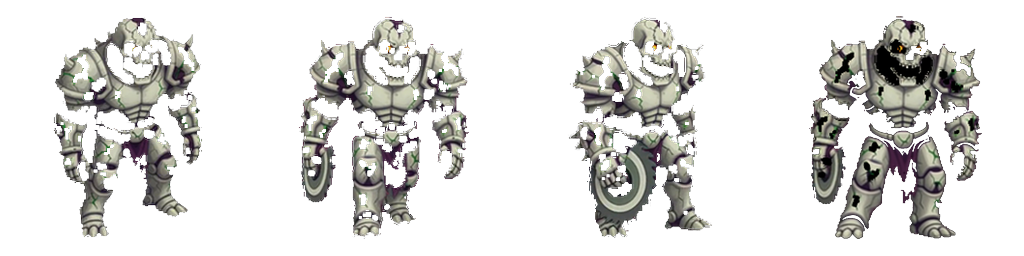
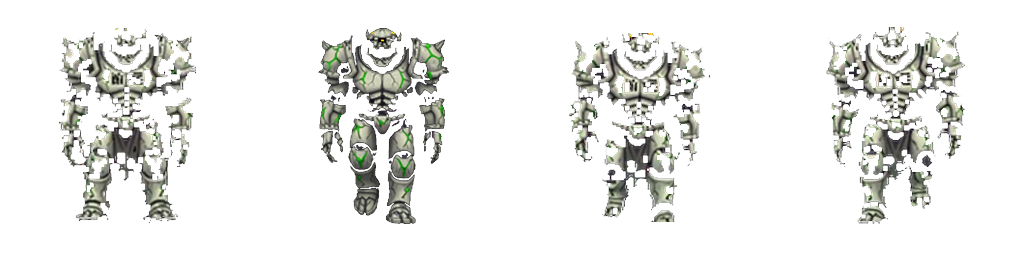
fix: colossus lane-edge walks use the front tank (v0.3.9)

diff --git a/index.html b/index.html
@@ -55,7 +55,7 @@
 
 // Player-facing build version. Bump this AND sw.js CACHE_VERSION together — the service worker
 // serves the shell from cache, so a version bump without a cache bump ships nothing to players.
-const GAME_VERSION = '0.3.8';
+const GAME_VERSION = '0.3.9';
 const CFG = {
   W: 540, H: 960,                 // logical portrait playfield
   // road is full-screen-width at the bottom now (see roadHalfWidth) — the player only needs
@@ -2258,7 +2258,7 @@ const IMGS={};
 // ---------- animated enemy sprite strips (sliced by slice_enemies.py, 128px square cells) ----------
 const ANIM={};
 (function(){
-  const V='?v=13';                                // bump to bust the browser cache when sprites change
+  const V='?v=14';                                // bump to bust the browser cache when sprites change
   const load=(src,frames,fps)=>{const im=new Image();im.onload=()=>im.ok=true;im.onerror=()=>im.ok=false;im.src=src+V;return {img:im,frames,fps};};
   const load3=(stem,frames,fps)=>({
     s: load('assets/swarm/'+stem+'_walk_s.png', frames, fps),

diff --git a/sw.js b/sw.js
@@ -6,7 +6,7 @@
 // player-facing string) — only CACHE_VERSION needs bumping to bust stale caches; renaming
 // the prefix would work too, but bumping the version is the documented mechanism and is
 // sufficient on its own to force every returning tester to refetch the shell.
-const CACHE_VERSION = 'v29';   // bumped 2026-08-22 for v0.3.8 14-gun icons + sprite frame repairs
+const CACHE_VERSION = 'v30';   // bumped 2026-08-22 for v0.3.9 colossus SE/SW = tank
 const CACHE_NAME = `hiveswarm-shell-${CACHE_VERSION}`;
 const PRECACHE_URLS = ['./', './index.html', './manifest.webmanifest'];
 

diff --git a/qa/_live_gfx_audit.py b/qa/_live_gfx_audit.py
@@ -1,0 +1,92 @@
+"""Line up every War enemy + every HUD gun and screenshot the live canvas."""
+from pathlib import Path
+
+from playwright.sync_api import sync_playwright
+
+OUT = Path(r"D:\Dev\HiveWar\qa\evidence\live_gfx")
+OUT.mkdir(parents=True, exist_ok=True)
+BRAVE = r"C:\Program Files\BraveSoftware\Brave-Browser\Application\brave.exe"
+
+PLACE_KINDS = """() => {
+  if (typeof startRun === 'function' && G.state === 'title') startRun('campaign');
+  G.state = 'play';
+  G.paused = true;
+  G.squad = 8;
+  G.level = 8;
+  G.graceT = 999;
+  spawnAcc = 0;
+  EDIT.spawnRate = EDIT.spawnRate.map(() => 0);
+  enemies.each(e => enemies.release(e));
+  const n = kindCount();
+  const names = [];
+  for (let k = 0; k < n; k++) {
+    const e = enemies.alloc();
+    if (!e) break;
+    const K = enemyRow(k);
+    e.kind = k;
+    e.lane = ((k % 6) - 2.5) / 3.2;
+    e.y = 280 + Math.floor(k / 6) * 170;
+    e.x = CFG.W / 2 + ((k % 6) - 2.5) * 78;
+    e.vx = 0; e.vy = 0;
+    e.maxhp = e.hp = 9999;
+    e.r = (K && K.r ? K.r : 16);
+    e.t = 0.35;
+    e.acidT = e.poisonT = e.burnT = 0;
+    names.push((K && K.name) || ('k'+k));
+  }
+  draw();
+  return {n, names, version: GAME_VERSION, wpn: WEAPONS.map(w => w.name)};
+}"""
+
+SET_WEAPON = """(i) => { G.weapon = i; G.state = 'play'; draw(); return WEAPONS[i] && WEAPONS[i].name; }"""
+
+
+def main() -> None:
+    with sync_playwright() as pw:
+        browser = pw.chromium.launch(headless=True, executable_path=BRAVE)
+        page = browser.new_page(viewport={"width": 540, "height": 960})
+        errs = []
+        page.on("pageerror", lambda e: errs.append(str(e)))
+        page.goto("http://127.0.0.1:8791/index.html?qa=1", wait_until="load", timeout=30000)
+        page.wait_for_timeout(1500)
+        page.screenshot(path=str(OUT / "00_title.png"))
+        info = page.evaluate(PLACE_KINDS)
+        print("placed", info)
+        page.wait_for_timeout(400)
+        page.screenshot(path=str(OUT / "01_all_kinds.png"))
+        # runner + colossus close-up: kinds 7 and 13
+        page.evaluate(
+            """() => {
+              enemies.each(e => enemies.release(e));
+              const specs = [
+                {k:7, x:120, y:520, lane:-0.5},
+                {k:7, x:270, y:520, lane:0},
+                {k:7, x:420, y:520, lane:0.5},
+                {k:13, x:120, y:720, lane:-0.5},
+                {k:13, x:270, y:720, lane:0},
+                {k:13, x:420, y:720, lane:0.5},
+              ];
+              for (const s of specs) {
+                const e = enemies.alloc(); if (!e) continue;
+                const K = enemyRow(s.k);
+                e.kind = s.k; e.lane = s.lane; e.x = s.x; e.y = s.y;
+                e.vx = 0; e.vy = 0; e.hp = e.maxhp = 9999;
+                e.r = K.r; e.t = 0.2;
+              }
+              draw();
+            }"""
+        )
+        page.wait_for_timeout(250)
+        page.screenshot(path=str(OUT / "02_runner_colossus.png"))
+        for i in range(14):
+            name = page.evaluate(SET_WEAPON, i)
+            page.wait_for_timeout(80)
+            safe = "".join(c if c.isalnum() else "_" for c in (name or str(i)))
+            page.screenshot(path=str(OUT / f"wpn_{i:02d}_{safe}.png"))
+            print("weapon", i, name)
+        print("errors", errs)
+        browser.close()
+
+
+if __name__ == "__main__":
+    main()

diff --git a/qa/_verify_0_3_5_cast.py b/qa/_verify_0_3_5_cast.py
@@ -20,8 +20,8 @@ ENEMY_SFX = ["shambler_attack.mp3", "shambler_die.mp3", "slime_attack.mp3", "col
 
 class CastImportTests(unittest.TestCase):
     def test_version_pair(self):
-        self.assertIn("const GAME_VERSION = '0.3.8'", HTML)
-        self.assertIn("CACHE_VERSION = 'v29'", SW)
+        self.assertIn("const GAME_VERSION = '0.3.9'", HTML)
+        self.assertIn("CACHE_VERSION = 'v30'", SW)
 
     def test_pickkind_uses_full_roster(self):
         self.assertIn("function kindCount()", HTML)

diff --git a/HiveWar.md b/HiveWar.md
@@ -3,7 +3,7 @@ type: game-documentation
 title: HiVE WAR
 description: Canonical source of truth for HiVE WAR — status, spawn mix, developer rules, and APK/Pages.
 status: playable-in-development
-version: 0.3.8
+version: 0.3.9
 updated: 2026-08-22
 tags: [game, hivemind, webgame, documentation]
 ---
@@ -16,13 +16,13 @@ If they disagree with this file, this file wins. Update this file in place when 
 
 | | |
 |---|---|
-| **Version** | `0.3.8` · `sw.js` `CACHE_VERSION = v29` |
+| **Version** | `0.3.9` · `sw.js` `CACHE_VERSION = v30` |
 | **Master path** | `D:\Dev\HiveWar` — edit here only |
 | **Game file** | `index.html` — one file: engine, FORGE, HUD, run loop |
 | **Launcher** | `Launch HiVE War.bat` (never `file://`) |
 | **GitHub** | https://github.com/MiSTRFiNGA/HiveWar (public, Pages on `master`) |
 | **Pages** | https://mistrfinga.github.io/HiveWar/ |
-| **APK (one only)** | `C:\Users\MiSTRFiNGA\Desktop\My Games\_APKs\HiveWar-0.3.8.apk`. Older War APKs are in `_APKs\Archive`. |
+| **APK (one only)** | `C:\Users\MiSTRFiNGA\Desktop\My Games\_APKs\HiveWar-0.3.9.apk`. Older War APKs are in `_APKs\Archive`. |
 | **Genre** | Lane / corridor shooter (refs: Real War, Z Route). |
 | **Not** | HiVE SWARM (`D:\Dev\HiveSwarm`) is the 360° survivors-like. Borrow a *behaviour* from it; do not edit that repo from this lane. |
 
@@ -102,6 +102,10 @@ Queen stays out of the fodder roster. Praetorian stays the level guardian (`PRAE
 ---
 
 ## 4. Change record
+
+### 2026-08-22 — Grok · v0.3.9 · live-play colossus identity
+
+Played 0.3.8 locally. HUD guns match names. Lane-edge Colossus still used the skull-and-saw SE/SW sheets. Those walks now copy the front tank strip so every lane is the same giant.
 
 ### 2026-08-22 — Grok · v0.3.8 · 14 gun icons + leftover sprite frames
 
